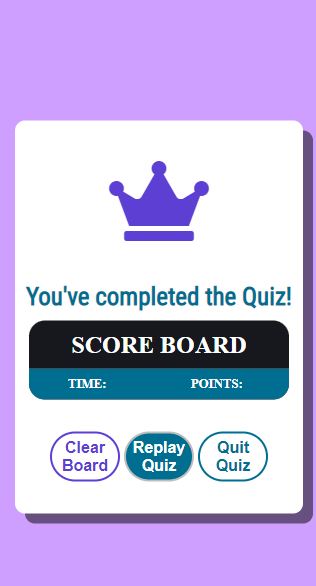
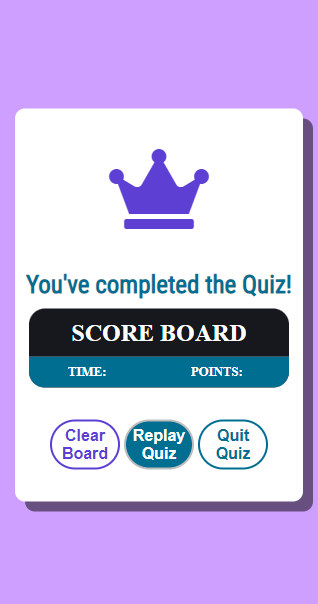
Change img name and format files

Changed region(s): [[0.0285, 0.1536, 0.9968, 0.9215]]

diff --git a/index.html b/index.html
@@ -1,6 +1,5 @@
 <!DOCTYPE html>
 <html lang="en">
-
 <head>
     <meta charset="UTF-8">
     <meta http-equiv="X-UA-Compatible" content="IE=edge">
@@ -10,10 +9,8 @@
     <meta name="keywords" content="crypto, quiz, bitcoin, blockchain, crypto quiz, cryptocurrencies">
     <link rel="icon" sizes="192x192" href="docs/testing/icon.ico" type="image/x-icon">
     <link rel="stylesheet" href="assets/css/style.css">
-
     <title>Crypto Quiz</title>
 </head>
-
 <body>
     <main>
         <!-- Start Quiz Div -->
@@ -24,7 +21,6 @@
                     <section class="fake-btn-section">
                         <button class="fake-btn buttons">Click Me</button>
                     </section>
-
                 </div>
                 <div class="theback">
                     <section class="info_box">
@@ -39,7 +35,6 @@
                                 question</span>
                             <span class="rules">5. Refrain from looking up the answers!</span>
                         </div>
-
                         <div class="button-div">
                             <!-- <button class="quit buttons back-card-button">Exit Quiz</button> -->
                             <button id="continue" class="continue buttons back-card-button">Continue</button>
@@ -48,7 +43,6 @@
                 </div>
             </div>
         </div>
-
         <!-- Quiz Box -->
         <div class="quiz_box hidden ">
             <header>
@@ -58,7 +52,6 @@
                     <div class="timer-sec">00:00:00</div>
                 </div>
             </header>
-
             <section class="question-section">
                 <div class="que_text">
                     <span id="question" class="questions"></span>
@@ -70,7 +63,6 @@
                     <button id="ans4" class="option"></button>
                 </div>
             </section>
-
             <!-- footer of Quiz Box -->
             <footer>
                 <div class="total_que">
@@ -78,14 +70,11 @@
                         Question <span id="qs-count">1</span>/10
                     </span>
                 </div>
-
                 <section class="footer-btn">
                     <button id="next-btn">Next</button>
                 </section>
-
             </footer>
         </div>
-
         <!-- Result Box -->
         <section class="result_box hidden">
             <div class="icon">
@@ -97,7 +86,6 @@
                     <header>
                         <h1>Score Board</h1>
                     </header>
-
                     <table>
                         <thead>
                             <tr id="headers">
@@ -110,28 +98,26 @@
                     </table>
                 </div>
             </div>
-
             <!-- Buttons on Results Box -->
             <div class="button result-btn">
                 <button id="clear-board" class="clear buttons result-btn1">Clear Board</button>
                 <button id="replay" class="replay buttons result-btn1">Replay Quiz</button>
                 <button id="quit" class="quit buttons result-btn1">Quit Quiz </button>
             </div>
-        </section>        
+        </section>
     </main>
-
     <!-- Page Footer-->
     <footer id="game-footer">
-        <a href="https://github.com/RiyadhKh4n" target="_blank" rel="noopener" class="center" aria-label="Visit my GitHub Profile"><i class="fab fa-github center"></i></a>
-        <a href="https://riyadhkh4n.github.io/cryptools/" target="_blank" rel="noopener" class="center" aria-label="Visit Cryptools, a crypto website for beginners"> <i class="fab fa-bitcoin"></i></a>
-        <a href="https://www.linkedin.com/in/riyadh-khan-49213519a/"  target="_blank" rel="noopener" class="center" aria-label="Visit my LinkedIn profile"><i class="fab fa-linkedin"></i></a>
+        <a href="https://github.com/RiyadhKh4n" target="_blank" rel="noopener" class="center"
+            aria-label="Visit my GitHub Profile"><i class="fab fa-github center"></i></a>
+        <a href="https://riyadhkh4n.github.io/cryptools/" target="_blank" rel="noopener" class="center"
+            aria-label="Visit Cryptools, a crypto website for beginners"> <i class="fab fa-bitcoin"></i></a>
+        <a href="https://www.linkedin.com/in/riyadh-khan-49213519a/" target="_blank" rel="noopener" class="center"
+            aria-label="Visit my LinkedIn profile"><i class="fab fa-linkedin"></i></a>
     </footer>
-
     <!-- Linking FontAwesome and JS files -->
     <script src="https://kit.fontawesome.com/164cadf278.js" crossorigin="anonymous"></script>
     <script src="assets/js/questions.js"></script>
     <script src="assets/js/script.js"></script>
-
 </body>
-
 </html>

diff --git a/assets/css/style.css b/assets/css/style.css
@@ -17,7 +17,7 @@ body {
     flex-direction: column;
 }
 
-main{
+main {
     flex-grow: 1;
 }
 
@@ -498,17 +498,19 @@ td {
     color: white;
 }
 
-#game-footer{
+#game-footer {
     background: white;
     height: 5vh;
 }
 
-.center{
+.center {
     text-align: center;
     width: 100%;
 }
 
-.fa-github, .fa-bitcoin, .fa-linkedin{
+.fa-github,
+.fa-bitcoin,
+.fa-linkedin {
     font-size: 1.8em;
     color: #006E91;
 }
@@ -522,12 +524,12 @@ td {
     .game-title {
         font-weight: bold;
         color: #006E91;
-        font-size: 10em;
+        font-size: 9em;
     }
 
     .fake-btn {
         width: 175px;
-        height: 90px;
+        height: 80px;
         font-size: 1.5em;
     }
 
@@ -550,8 +552,8 @@ td {
     }
 
     .back-card-button {
-        width: 165px;
-        height: 100px;
+        width: 145px;
+        height: 90px;
         font-size: 1.5em;
     }
 
@@ -637,6 +639,7 @@ td {
     .result-btn1 {
         margin: 3px;
     }
+
     #clear-board {
         width: 120px;
         height: 60px;
@@ -655,7 +658,9 @@ td {
         font-size: 1em;
     }
 
-    .fa-github, .fa-bitcoin, .fa-linkedin{
+    .fa-github,
+    .fa-bitcoin,
+    .fa-linkedin {
         font-size: 1.2em;
     }
 
@@ -797,17 +802,19 @@ td {
         font-size: 1.2em;
     }
 
-    #game-footer{
+    #game-footer {
         background: white;
         height: 30px;
     }
-    
-    .center{
+
+    .center {
         text-align: center;
         width: 100%;
     }
-    
-    .fa-github, .fa-bitcoin, .fa-linkedin{
+
+    .fa-github,
+    .fa-bitcoin,
+    .fa-linkedin {
         font-size: 1.4em;
         color: #006E91;
     }
@@ -822,7 +829,7 @@ td {
     .game-title {
         font-weight: bold;
         color: #006E91;
-        font-size: 7.5em;
+        font-size: 11em;
     }
 
     .fake-btn {
@@ -905,6 +912,7 @@ td {
         font-weight: bold;
         color: #006E91;
         font-size: 12em;
+        margin-top: 100px;
     }
 
     .fake-btn {
@@ -1040,17 +1048,19 @@ td {
         font-size: 1.6em;
     }
 
-    #game-footer{
+    #game-footer {
         background: white;
         height: 30px;
     }
-    
-    .center{
+
+    .center {
         text-align: center;
         width: 100%;
     }
-    
-    .fa-github, .fa-bitcoin, .fa-linkedin{
+
+    .fa-github,
+    .fa-bitcoin,
+    .fa-linkedin {
         font-size: 1.4em;
         color: #006E91;
     }

diff --git a/assets/js/questions.js b/assets/js/questions.js
@@ -248,7 +248,7 @@ let questions = [{
   },
   {
     question: "What is the advantage of using a Decentralised Exchange?",
-    answer: "You have access to alot more tokens and you don't have to KYC if you want to trade",
+    answer: "You have access to more tokens and don't have to KYC when trading",
 
     ans1: "You have access to more tokens and don't have to KYC when trading",
     ans2: "There is high volumes of liquidity",

diff --git a/TESTING.md b/TESTING.md
@@ -130,7 +130,7 @@ let timerRef = document.querySelector('.timer-sec');
 
 This will cause the time to actually change in real time when the user selected one of the buttons mentioned earlier. A working view of the timer can be seen below:
 
-![Working Timer](docs/testing/working_time.png)
+![Working Timer](docs/testing/workingtime.png)
 
 ---
 
